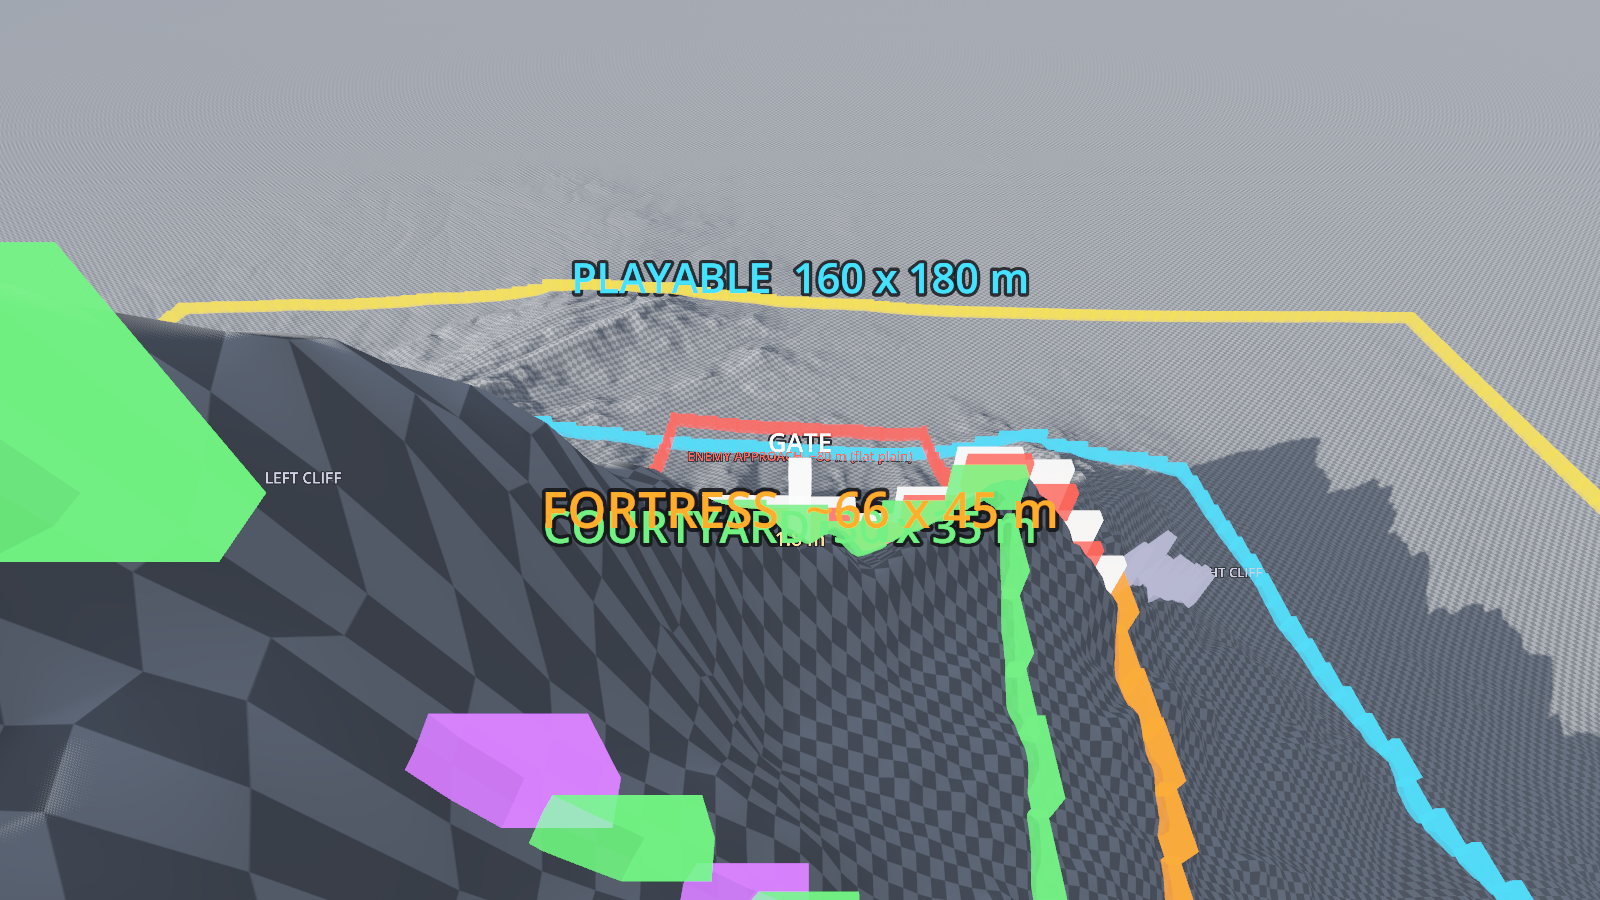
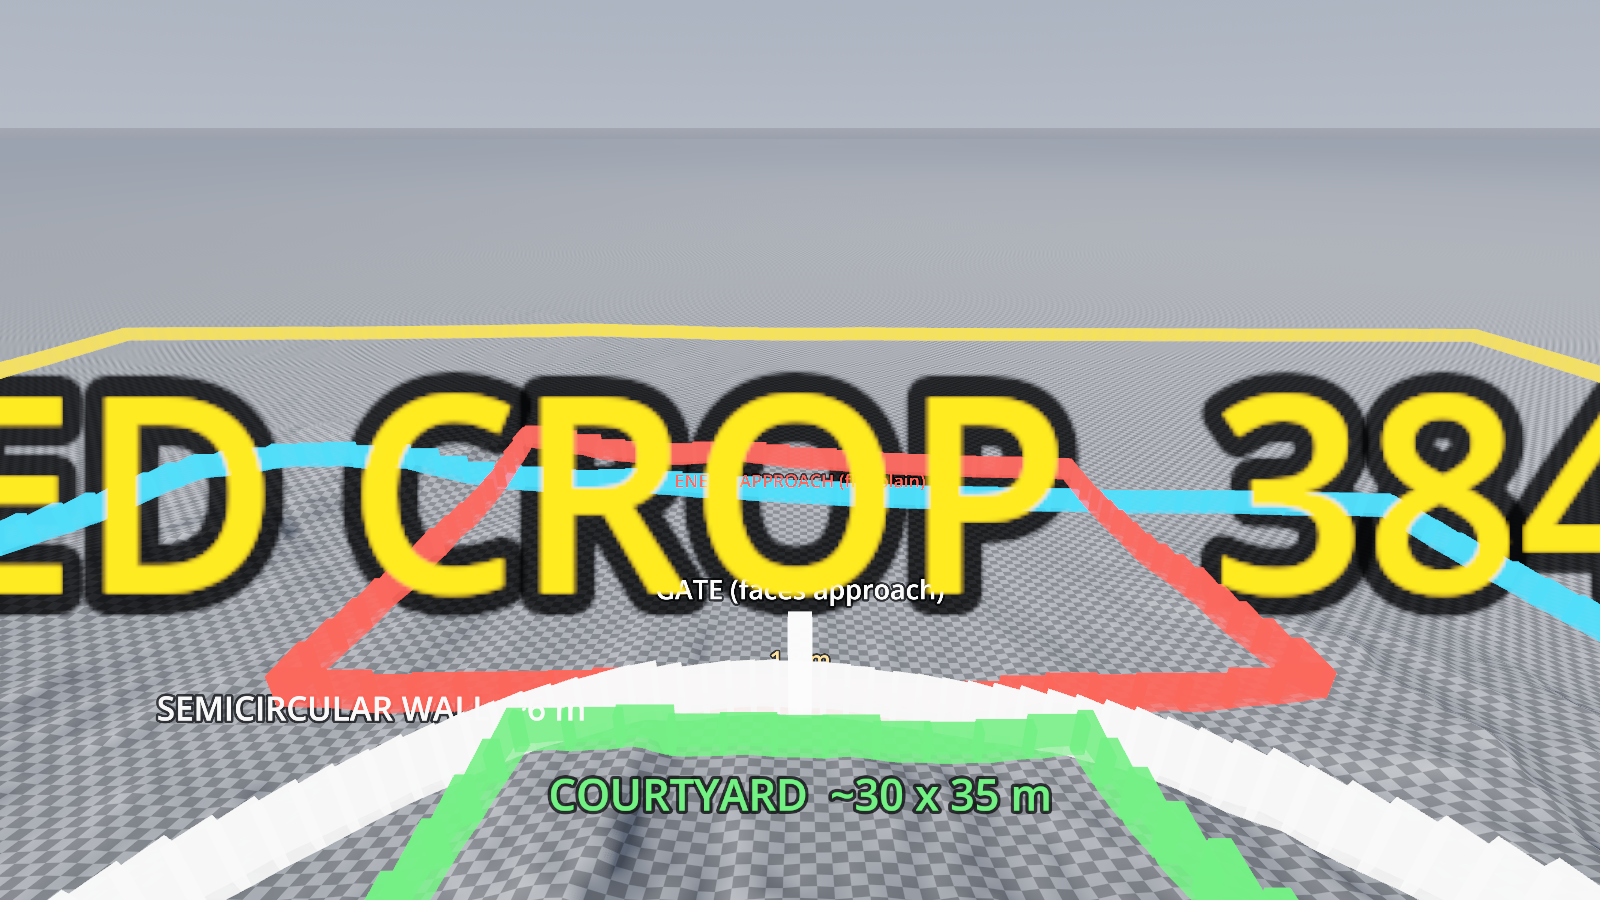
feat: revise heightmap to d-shape fortress
Per reviewer: reduced mountain height (scale 2400->900, ~66 m peak) and replaced the rectangular fortress with a D-shape concept — semicircular wall at the mountain foot facing the plain, mountain as impassable rear backdrop, gate at arc apex, courtyard inside the D, arc ends meeting cliffs. Regenerated 7 screenshots; updated heightmap_audit.md.

diff --git a/docs/heightmap_audit.md b/docs/heightmap_audit.md
@@ -64,18 +64,31 @@ diffuse only as optional reference. For this audit the terrain uses Terrain3D's
 
 To inspect the **whole** mountain compactly without a 4 km world (and without
 cropping the source), the full map was **downsampled to 1024²** and imported into
-Terrain3D as a **1024 × 1024 m** preview at vertex spacing 1.0, vertical
-`scale = 2400` → **peak ≈ 177 m**. This is an *inspection* terrain, not the final
-compact world. Scale relationship: **1 preview-metre = 4 source-pixels**.
+Terrain3D as a **1024 × 1024 m** preview at vertex spacing 1.0. This is an
+*inspection* terrain, not the final compact world.
+Scale relationship: **1 preview-metre = 4 source-pixels**.
+
+Vertical `scale = 900` → **peak ≈ 66 m** (deliberately **reduced** so the mountain
+is a modest backdrop and the 6 m walls read at the foot, per the reviewer's brief).
+
+## Fortress concept (reviewer-directed): "D-shape" at the mountain foot
+
+- The **mountain is the impassable REAR** — the flat side of a **D**.
+- A **SEMICIRCULAR wall** at the mountain **foot** (on low, flat-ish ground —
+  *not* high on the slope) bulges out into the plain — the curved side of the D.
+- **Gate** sits at the apex of the arc, facing the flat **enemy approach**.
+- **Courtyard** nests inside the D, backed against the mountain.
+- The **arc ends connect to the mountain flanks** (left/right cliff connections).
+- Roughly **half the crop is mountain (rear), half is fortress + approach (front)**.
 
 ## Recommendations (for the Fortress Preparation stage — pending approval)
 
 | Recommendation | Value |
 | --- | --- |
-| **Recommended crop area** | preview **x[208–592], z[308–692]** (384 × 384 m) → source-px **x[832–2368], z[1232–2768]** (a 1536² window), on the **west flank** facing the plain |
+| **Recommended crop area** | preview **x[148–532], z[308–692]** (384 × 384 m) → source-px **x[592–2128], z[1232–2768]** (a 1536² window). Straddles the foot: **west half = flat plain (approach), east half = mountain (rear)** |
 | **Recommended final world** | **384 × 384 m** terrain, **160 × 180 m** playable region |
-| **Recommended vertical scale** | target **50–80 m max relief across the playable area** — this is *less* than the preview's 177 m peak, so lower `scale` (≈ 900–1100) or exclude the sharp summit from the playable band; tune once the plateau base elevation is fixed |
-| Fortress orientation | wall faces **west** (down onto the flat plain = approach); peak is the **rear (east) backdrop**; spurs form **left/right cliffs** |
+| **Recommended vertical scale** | `scale ≈ 900` → peak ≈ 66 m (reduced per brief); gives a modest backdrop under which 6 m walls read at the foot |
+| Fortress layout | **D-shape**: semicircular wall at the foot facing **west** (plain = approach); **mountain = rear backdrop (east)**; arc ends = **left/right cliffs**; gate at arc apex |
 
 ### Important finding — the site is steep
 
